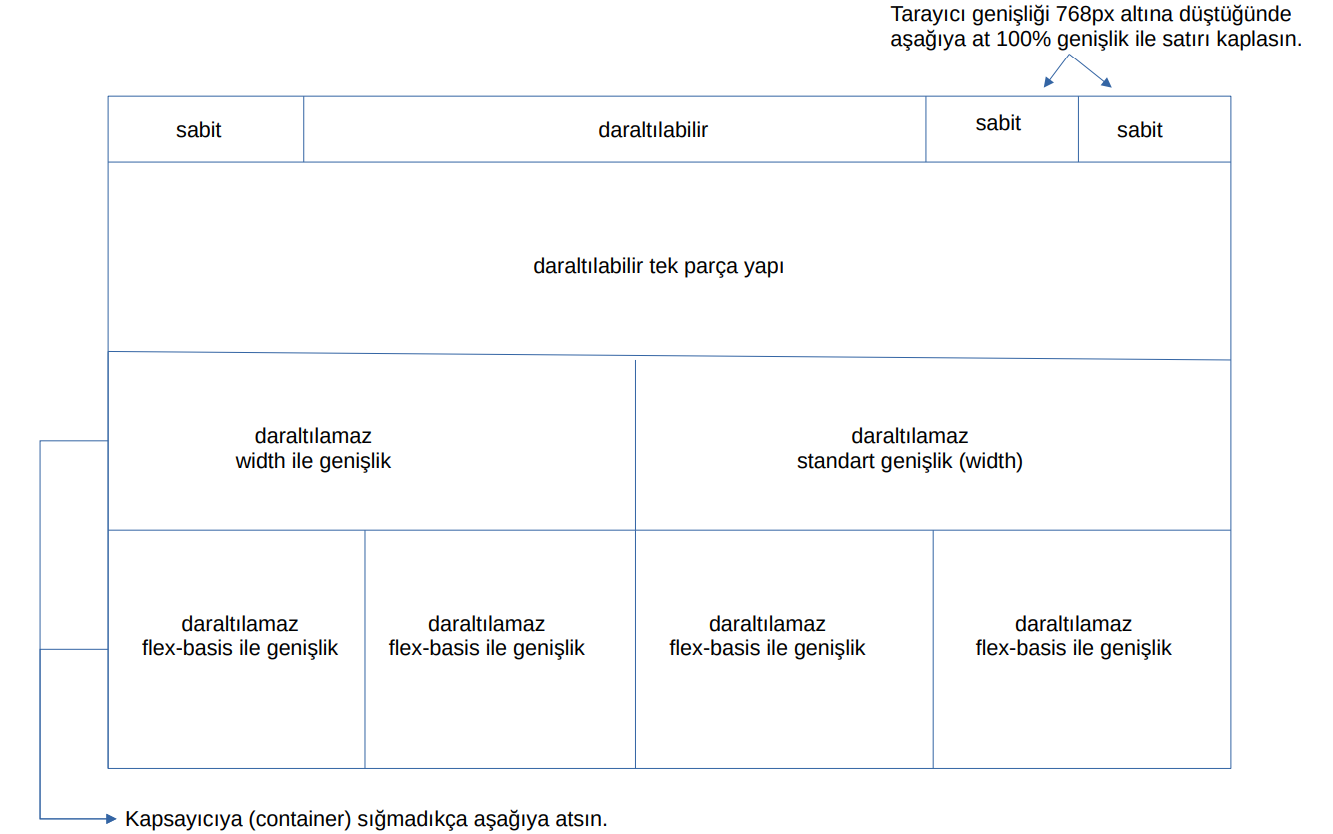
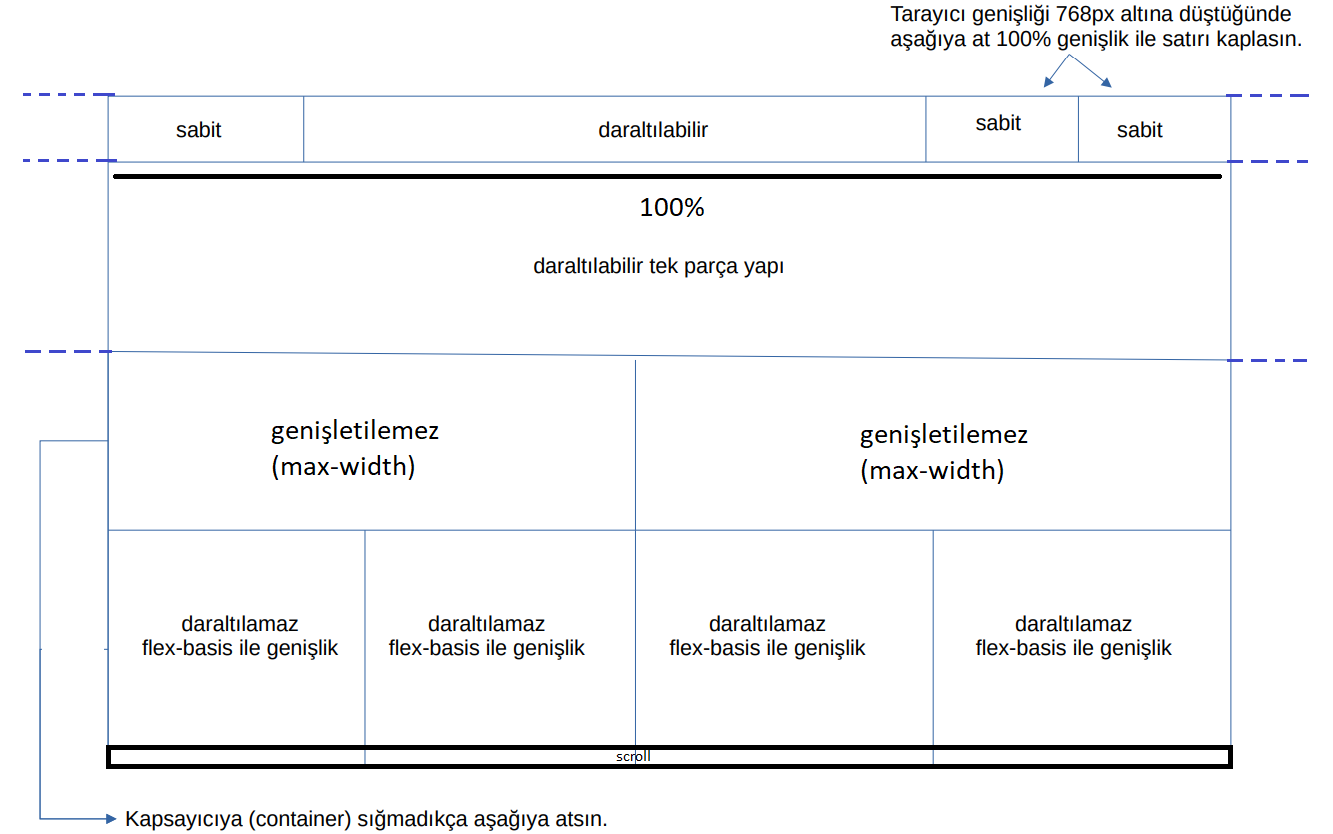
Lesson18 added

diff --git a/16-Example-Flexbox_Structure/index.html b/16-Example-Flexbox_Structure/index.html
@@ -6,92 +6,7 @@
     <meta http-equiv="X-UA-Compatible" content="IE=edge">
     <meta name="viewport" content="width=device-width, initial-scale=1.0">
     <title>Örnek-Flexbox Yapısı</title>
-    <style>
-        * {
-            box-sizing: border-box;
-        }
-        
-        body {
-            margin: 0;
-            color: white;
-        }
-        
-        .header {
-            display: flex;
-            flex-wrap: wrap;
-        }
-        
-        .logo {
-            height: 50px;
-            background-color: darkblue;
-            width: 200px;
-            display: flex;
-            align-items: center;
-            justify-content: center;
-            flex-shrink: 0;
-        }
-        
-        .space {
-            flex-grow: 1;
-            height: 50px;
-            display: flex;
-            align-items: center;
-            justify-content: center;
-            background-color: darkred;
-        }
-        
-        .link {
-            flex-basis: 100%;
-            height: 50px;
-            display: flex;
-            align-items: center;
-            justify-content: center;
-            background-color: black;
-        }
-        
-        .link:nth-child(odd) {
-            background-color: rgb(32, 31, 31);
-        }
-        
-        .slider {
-            height: 300px;
-            background-color: darkgreen;
-            display: flex;
-            align-items: center;
-            justify-content: center;
-        }
-        
-        .about {
-            display: flex;
-            flex-wrap: wrap;
-            justify-content: center;
-        }
-        .about-item{
-            width: 100%;
-            height: 200px;
-            background-color: darkorange;
-            display: flex;
-            align-items: center;
-            justify-content: inherit;
-        }
-        .about-item:nth-child(odd){
-            opacity: 0.7;
-        }
-
-        @media (min-width:768px) {
-            .header {
-                flex-wrap: nowrap;
-            }
-            .link {
-                flex-shrink: 0;
-                flex-basis: 100px;
-            }
-            .about-item{
-                /* width: 50%; */
-                max-width: 384px;
-            }
-        }
-    </style>
+    <link rel="stylesheet" href="app.css">
 </head>
 
 <body>
@@ -111,7 +26,12 @@
         <div class="about-item">minimum genişlik</div>
         <div class="about-item">minimum genişlik</div>
     </section>
-
+    <section class="porfolio">
+        <div class="porfolio-item">flex-basis</div>
+        <div class="porfolio-item">flex-basis</div>
+        <div class="porfolio-item">flex-basis</div>
+        <div class="porfolio-item">flex-basis</div>
+    </section>
 </body>
 
 </html>

diff --git a/16-Example-Flexbox_Structure/app.css b/16-Example-Flexbox_Structure/app.css
@@ -1,0 +1,117 @@
+* {
+    box-sizing: border-box;
+}
+
+body {
+    margin: 0;
+    color: white;
+}
+
+.header {
+    display: flex;
+    flex-wrap: wrap;
+}
+
+.logo {
+    height: 50px;
+    background-color: darkblue;
+    width: 200px;
+    display: flex;
+    align-items: center;
+    justify-content: center;
+    flex-shrink: 0;
+}
+
+.space {
+    flex-grow: 1;
+    height: 50px;
+    display: flex;
+    align-items: center;
+    justify-content: center;
+    background-color: darkred;
+}
+
+.link {
+    flex-basis: 100%;
+    height: 50px;
+    display: flex;
+    align-items: center;
+    justify-content: center;
+    background-color: black;
+}
+
+.link:nth-child(odd) {
+    background-color: rgb(32, 31, 31);
+}
+
+.slider {
+    height: 300px;
+    background-color: darkgreen;
+    display: flex;
+    align-items: center;
+    justify-content: center;
+}
+
+.about {
+    display: flex;
+    flex-wrap: wrap;
+    justify-content: center;
+}
+.about-item{
+    width: 100%;
+    height: 200px;
+    background-color: darkorange;
+    display: flex;
+    align-items: center;
+    justify-content: inherit;
+}
+.about-item:nth-child(odd){
+    opacity: 0.7;
+}
+.porfolio{
+    display: flex;
+    /* flex-wrap: wrap; */
+    /* justify-content: center; */
+    justify-content: flex-start;
+    overflow-x: auto;
+}
+.porfolio-item{
+    background-color: purple;
+    height: 200px;
+    /* flex-basis:100%; */
+    flex-basis:300px;
+    flex-shrink: 0;
+    display: flex;
+    justify-content: center;
+    align-items: center;
+}
+.porfolio-item:nth-child(even){
+    background-color: rgb(184, 21, 184);
+}
+@media (min-width:768px) {
+    .header {
+        flex-wrap: nowrap;
+    }
+    .link {
+        flex-shrink: 0;
+        flex-basis: 100px;
+    }
+    .about-item{
+        /* width: 50%; */
+        max-width: 384px;
+    }
+    /* .porfolio-item{
+        flex-basis: 50%;
+    } */
+}
+/* @media (min-width:992px) {
+    .porfolio-item{
+        flex-basis:25%;
+        max-width: 300px;
+    }
+} */
+@media (min-width:1200px) {
+    .porfolio{
+        justify-content: center;
+    }
+}
